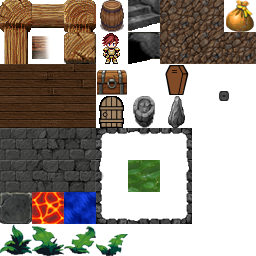
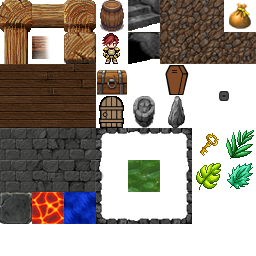
add tile images

Changed region(s): [[0.0, 0.875, 0.5, 1.0], [0.75, 0.5, 1.0, 0.75], [0.875, 0.0, 1.0, 0.125]]

diff --git a/src/state-editor.cpp b/src/state-editor.cpp
@@ -261,13 +261,13 @@ namespace castlecrawl
         else if (keyScancode == sf::Keyboard::Scancode::C)         { editMap(t_context, 'c', 'c'); }
         else if (keyScancode == sf::Keyboard::Scancode::K)         { editMap(t_context, 'k', 'k'); }
         else if (keyScancode == sf::Keyboard::Scancode::Num0)      { editMap(t_context, '0', '0'); }
-        else if (keyScancode == sf::Keyboard::Scancode::Num1)      { editMap(t_context, '1', '1'); }
-        else if (keyScancode == sf::Keyboard::Scancode::Num2)      { editMap(t_context, '2', '2'); }
-        else if (keyScancode == sf::Keyboard::Scancode::Num3)      { editMap(t_context, '3', '3'); }
-        else if (keyScancode == sf::Keyboard::Scancode::Num4)      { editMap(t_context, '4', '4'); }
-        else if (keyScancode == sf::Keyboard::Scancode::Num5)      { editMap(t_context, '5', '5'); }
-        else if (keyScancode == sf::Keyboard::Scancode::Num6)      { editMap(t_context, '6', '6'); }
-        else if (keyScancode == sf::Keyboard::Scancode::Num7)      { editMap(t_context, '7', '7'); }
+        else if (keyScancode == sf::Keyboard::Scancode::Num1)      { editMap(t_context, '!', '1'); }
+        else if (keyScancode == sf::Keyboard::Scancode::Num2)      { editMap(t_context, '@', '2'); }
+        else if (keyScancode == sf::Keyboard::Scancode::Num3)      { editMap(t_context, '#', '3'); }
+        else if (keyScancode == sf::Keyboard::Scancode::Num4)      { editMap(t_context, '$', '4'); }
+        else if (keyScancode == sf::Keyboard::Scancode::Num5)      { editMap(t_context, '%', '5'); }
+        else if (keyScancode == sf::Keyboard::Scancode::Num6)      { editMap(t_context, '^', '6'); }
+        else if (keyScancode == sf::Keyboard::Scancode::Num7)      { editMap(t_context, '&', '7'); }
         else if (keyScancode == sf::Keyboard::Scancode::Num8)      { editMap(t_context, '8', '8'); }
         else if (keyScancode == sf::Keyboard::Scancode::Num9)      { editMap(t_context, '9', '9'); }
         else if (keyScancode == sf::Keyboard::Scancode::Semicolon) { editMap(t_context, ';', ':'); }
@@ -284,6 +284,7 @@ namespace castlecrawl
             const std::string keyText(
                 "Esc-Quit\nCNTRL-s-Save\nCNTRL-l-Load\nSpace-Bare Floor\nPeriod-Erase\n"
                 "f-Change-Flooring\nr-Rock\nl-Lava\nw-Water\nc-Chest\nk-Coffin\n"
+                "!-Bag\n@-Altar\n#-StoneSpire\n$-Key\n%^&-Herbs\n"
                 "S-Stairs Up\ns-Stair Down\nD-Door Locked\nd-Door Unlocked\n"
                 "0-Snake\n1-SnakeBag\n2-Spider\n3-Spiderweb\n4-Goblin\n5-GoblinBarrel\n"
                 "6-Bat\n7-BatMask\n8-Skeleton\n9-SkeletonGrave\n:-Demon\n;-DemonDoor\n"
@@ -449,6 +450,13 @@ namespace castlecrawl
             case 'b': { return "Barrel"; }
             case 'c': { return "Chest"; }
             case 'k': { return "Coffin"; }
+            case '!': { return "Bag"; }
+            case '@': { return "Altar"; }
+            case '#': { return "StoneSpire"; }
+            case '$': { return "Key"; }
+            case '%': { return "Weak Herb"; }
+            case '^': { return "Normal Herb"; }
+            case '&': { return "Strong Herb"; }
             case '0': { return "Snake"; }
             case '1': { return "Snake Bag"; }
             case '2': { return "Spider"; }

diff --git a/src/tile-image-enum.hpp b/src/tile-image-enum.hpp
@@ -26,6 +26,13 @@ namespace castlecrawl
         DoorLocked,
         Chest,
         Coffin,
+        Bag,
+        Altar,
+        StoneSpire,
+        Key,
+        HerbWeak,
+        HerbNormal,
+        HerbStrong,
         Wall_TopLeft,
         Wall_Horiz,
         Wall_Top,
@@ -80,6 +87,13 @@ namespace castlecrawl
             case 'D':    { return TileImage::DoorLocked;         }
             case 'c':    { return TileImage::Chest;              }
             case 'k':    { return TileImage::Coffin;             }
+            case '!':    { return TileImage::Bag;                }
+            case '@':    { return TileImage::Altar;              }
+            case '#':    { return TileImage::StoneSpire;         }
+            case '$':    { return TileImage::Key;                }
+            case '%':    { return TileImage::HerbWeak;           }
+            case '^':    { return TileImage::HerbNormal;         }
+            case '&':    { return TileImage::HerbStrong;         }
             case 'C':    { return TileImage::Wall_TopLeft;       }
             case '-':    { return TileImage::Wall_Horiz;         }
             case 'T':    { return TileImage::Wall_Top;           }
@@ -138,6 +152,13 @@ namespace castlecrawl
             case TileImage::DoorLocked:         { return sf::IntRect( { 96, 96},{32,32}); }
             case TileImage::Chest:              { return sf::IntRect( { 96, 64},{32,32}); }
             case TileImage::Coffin:             { return sf::IntRect( {160, 64},{32,32}); }
+            case TileImage::Bag:                { return sf::IntRect( {224,  0},{32,32}); }
+            case TileImage::Altar:              { return sf::IntRect( {128, 96},{32,32}); }
+            case TileImage::StoneSpire:         { return sf::IntRect( {160, 96},{32,32}); }
+            case TileImage::Key:                { return sf::IntRect( {192,128},{32,32}); }
+            case TileImage::HerbWeak:           { return sf::IntRect( {224,128},{32,32}); }
+            case TileImage::HerbNormal:         { return sf::IntRect( {192,160},{32,32}); }
+            case TileImage::HerbStrong:         { return sf::IntRect( {224,160},{32,32}); }
             case TileImage::Wall_TopLeft:       { return sf::IntRect( {  0,  0},{32,32}); }
             case TileImage::Wall_Horiz:         { return sf::IntRect( { 32,  0},{32,32}); }
             case TileImage::Wall_Top:           { return sf::IntRect( { 64,  0},{32,32}); }
